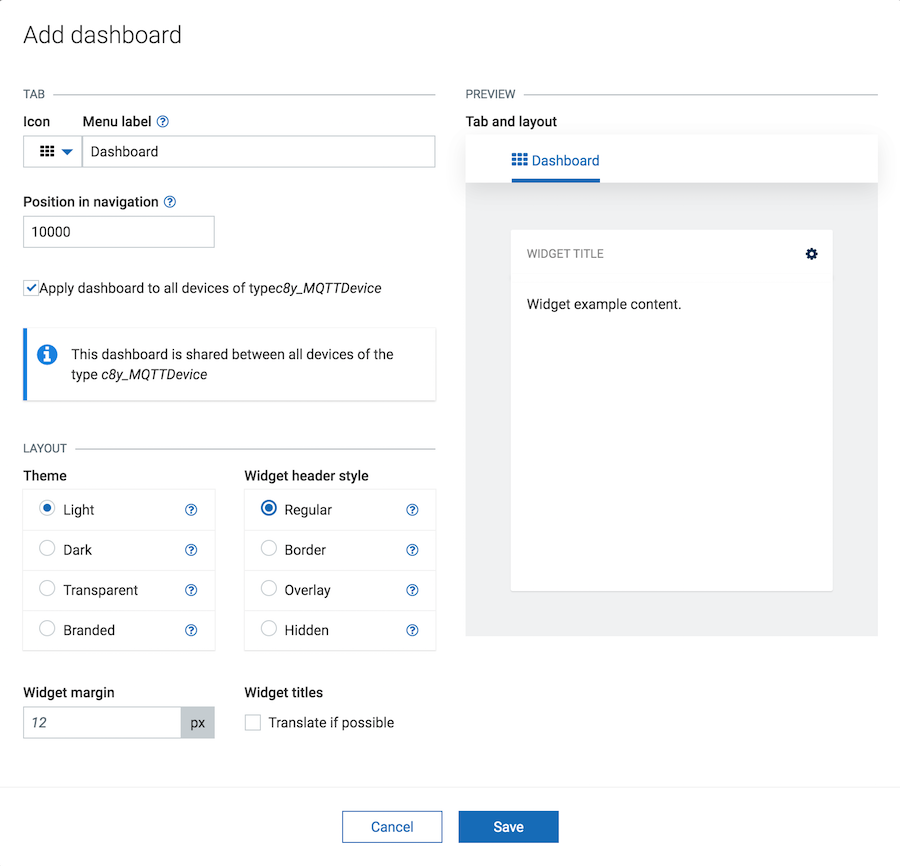
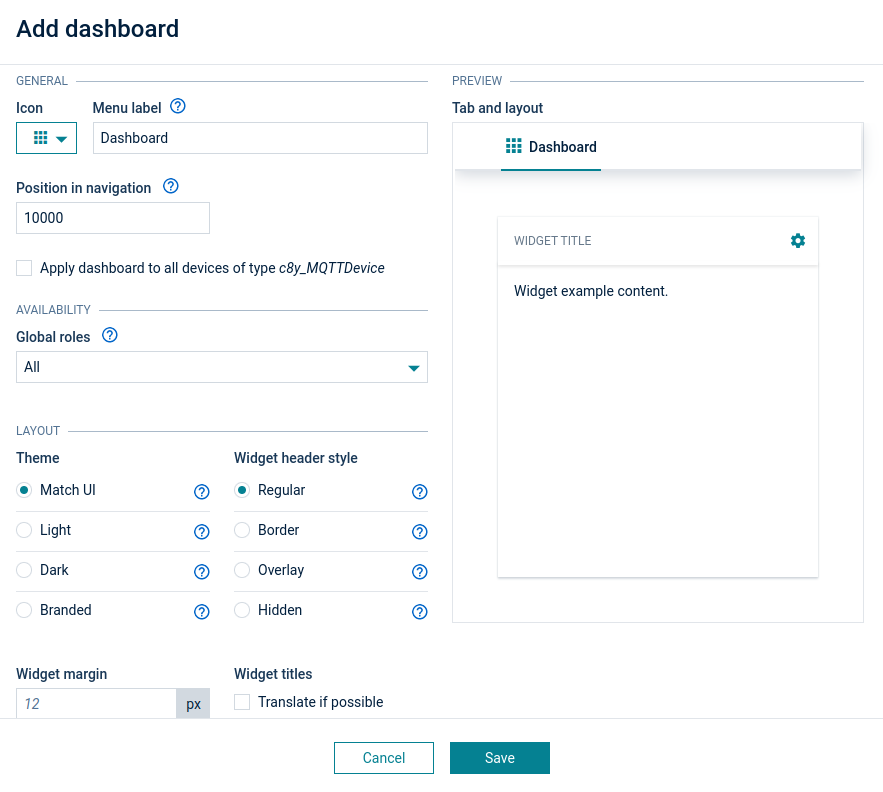
Code review

diff --git a/content/users-guide/cockpit-bundle/dashboards.md b/content/users-guide/cockpit-bundle/dashboards.md
@@ -46,16 +46,25 @@ ROLES & PERMISSIONS:
     * A menu label to be used as the name of the dashboard.
     * The location of the dashboard in the navigator, with "10000" being ordered first and "-10000" last.
 <br><br>
+
 4. Enable the option **Apply dashboard to all devices of type <device type>** to share the dashboard with all devices of this type.
-5. In the **Layout** section you can select a theme for the dashboard (one of "Light", "Dark", "Transparent" or "Branded") and a default header style for the widgets (one of "Regular", "Border", "Overlay", or "Hidden"). Moreover, you can change the default widget margin (default value is 15 px).
-6. Enable the option **Translate widget titles if possible**, to have the widget title translated every time the language is changed.
+
+5. In the **Availability** section, specify which users have access to the dashboard based on global roles. By default, all available global roles are selected, which means that a user with at least one such role has access to the dashboard.
+
+   {{< c8y-admon-info >}}
+- Dashboard are always visible to its owner and to users with ADMIN permission for the permission type "Inventory".
+- This functionality is entirely based on client-side solutions. If users have an accurate link to the dashboard, they will still be able to access it.
+    {{< /c8y-admon-info >}}
+
+6. In the **Layout** section you can select a theme for the dashboard (one of "Light", "Dark", "Transparent" or "Branded") and a default header style for the widgets (one of "Regular", "Border", "Overlay", or "Hidden"). Moreover, you can change the default widget margin (default value is 15 px).
+7. Enable the option **Translate widget titles if possible**, to have the widget title translated every time the language is changed.
 
     {{< c8y-admon-info >}}
 The widget titles will be translated only if a valid translation is available.
     {{< /c8y-admon-info >}}
-7. In the **Preview** section at the right, a preview of the selected layout settings is immediately displayed to visualize your selections.
+8. In the **Preview** section at the right, a preview of the selected layout settings is immediately displayed to visualize your selections.
 
-8. Click **Save** to create and open the dashboard.
+9. Click **Save** to create and open the dashboard.
 
 <img src="/images/users-guide/cockpit/cockpit-dashboard-empty.png" name="Empty dashboard"/>
 
@@ -103,18 +112,3 @@ An alternative way to copy a dashboard is to use the
 ### To delete a dashboard
 
 To delete a dashboard from an object, click **More...** in the top menu bar and from the context menu select **Delete dashboard**.
-
-
-### Dashboard availability
-Dashboard availability adds the ability to control which users have access to certain dashboards based on global roles. The functionality is designed to improve dashboard management.
-
-A new section called **Availability** has been added to the edit/create dashboard view. By default, all available global roles are checked, which means that a user with at least one such role will have access to this dashboard.
-
-<img src="/images/users-guide/cockpit/cockpit-dashboard-availbility.png" name="Dashboard availability"/>
-
-{{< c8y-admon-important >}}
-Dashboard will always be visible to its owner or if the user has ADMIN permission for permission type "Inventory".
-{{< /c8y-admon-info >}}
-{{< c8y-admon-info >}}
-This functionality is based entirely on client-side solutions. If the user has an accurate link to the dashboard, he will still be able to access it.
-{{< /c8y-admon-info >}}
